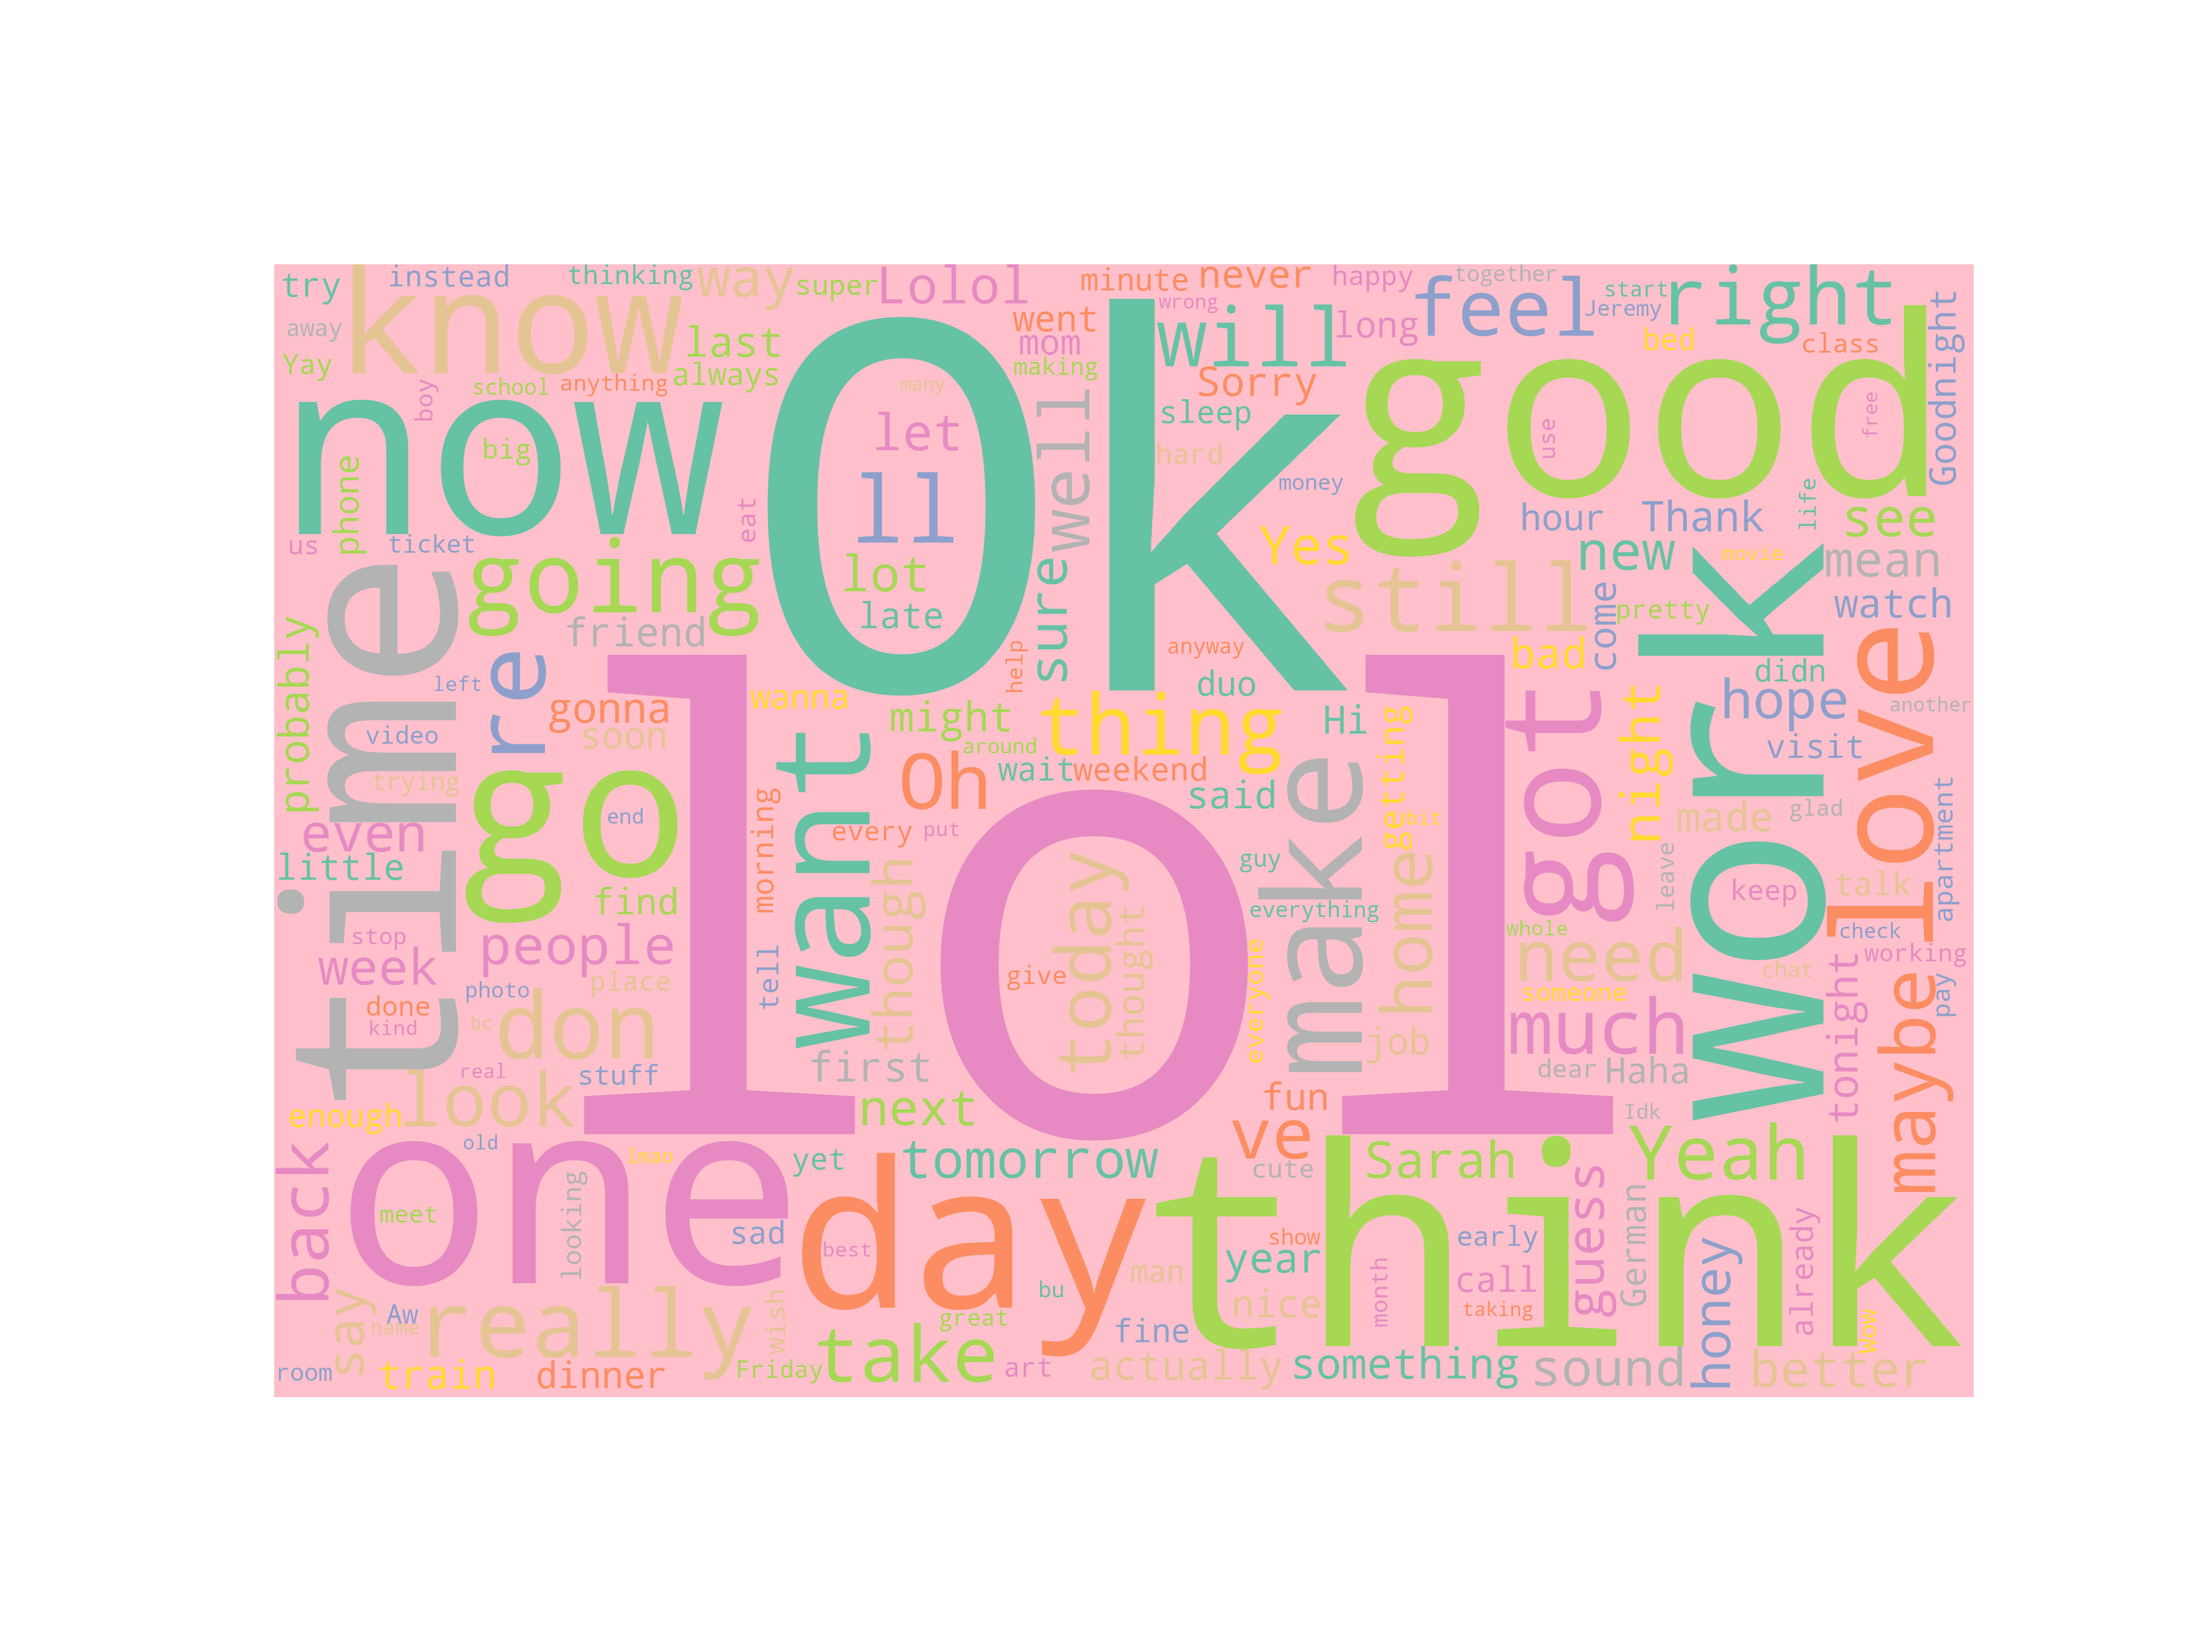
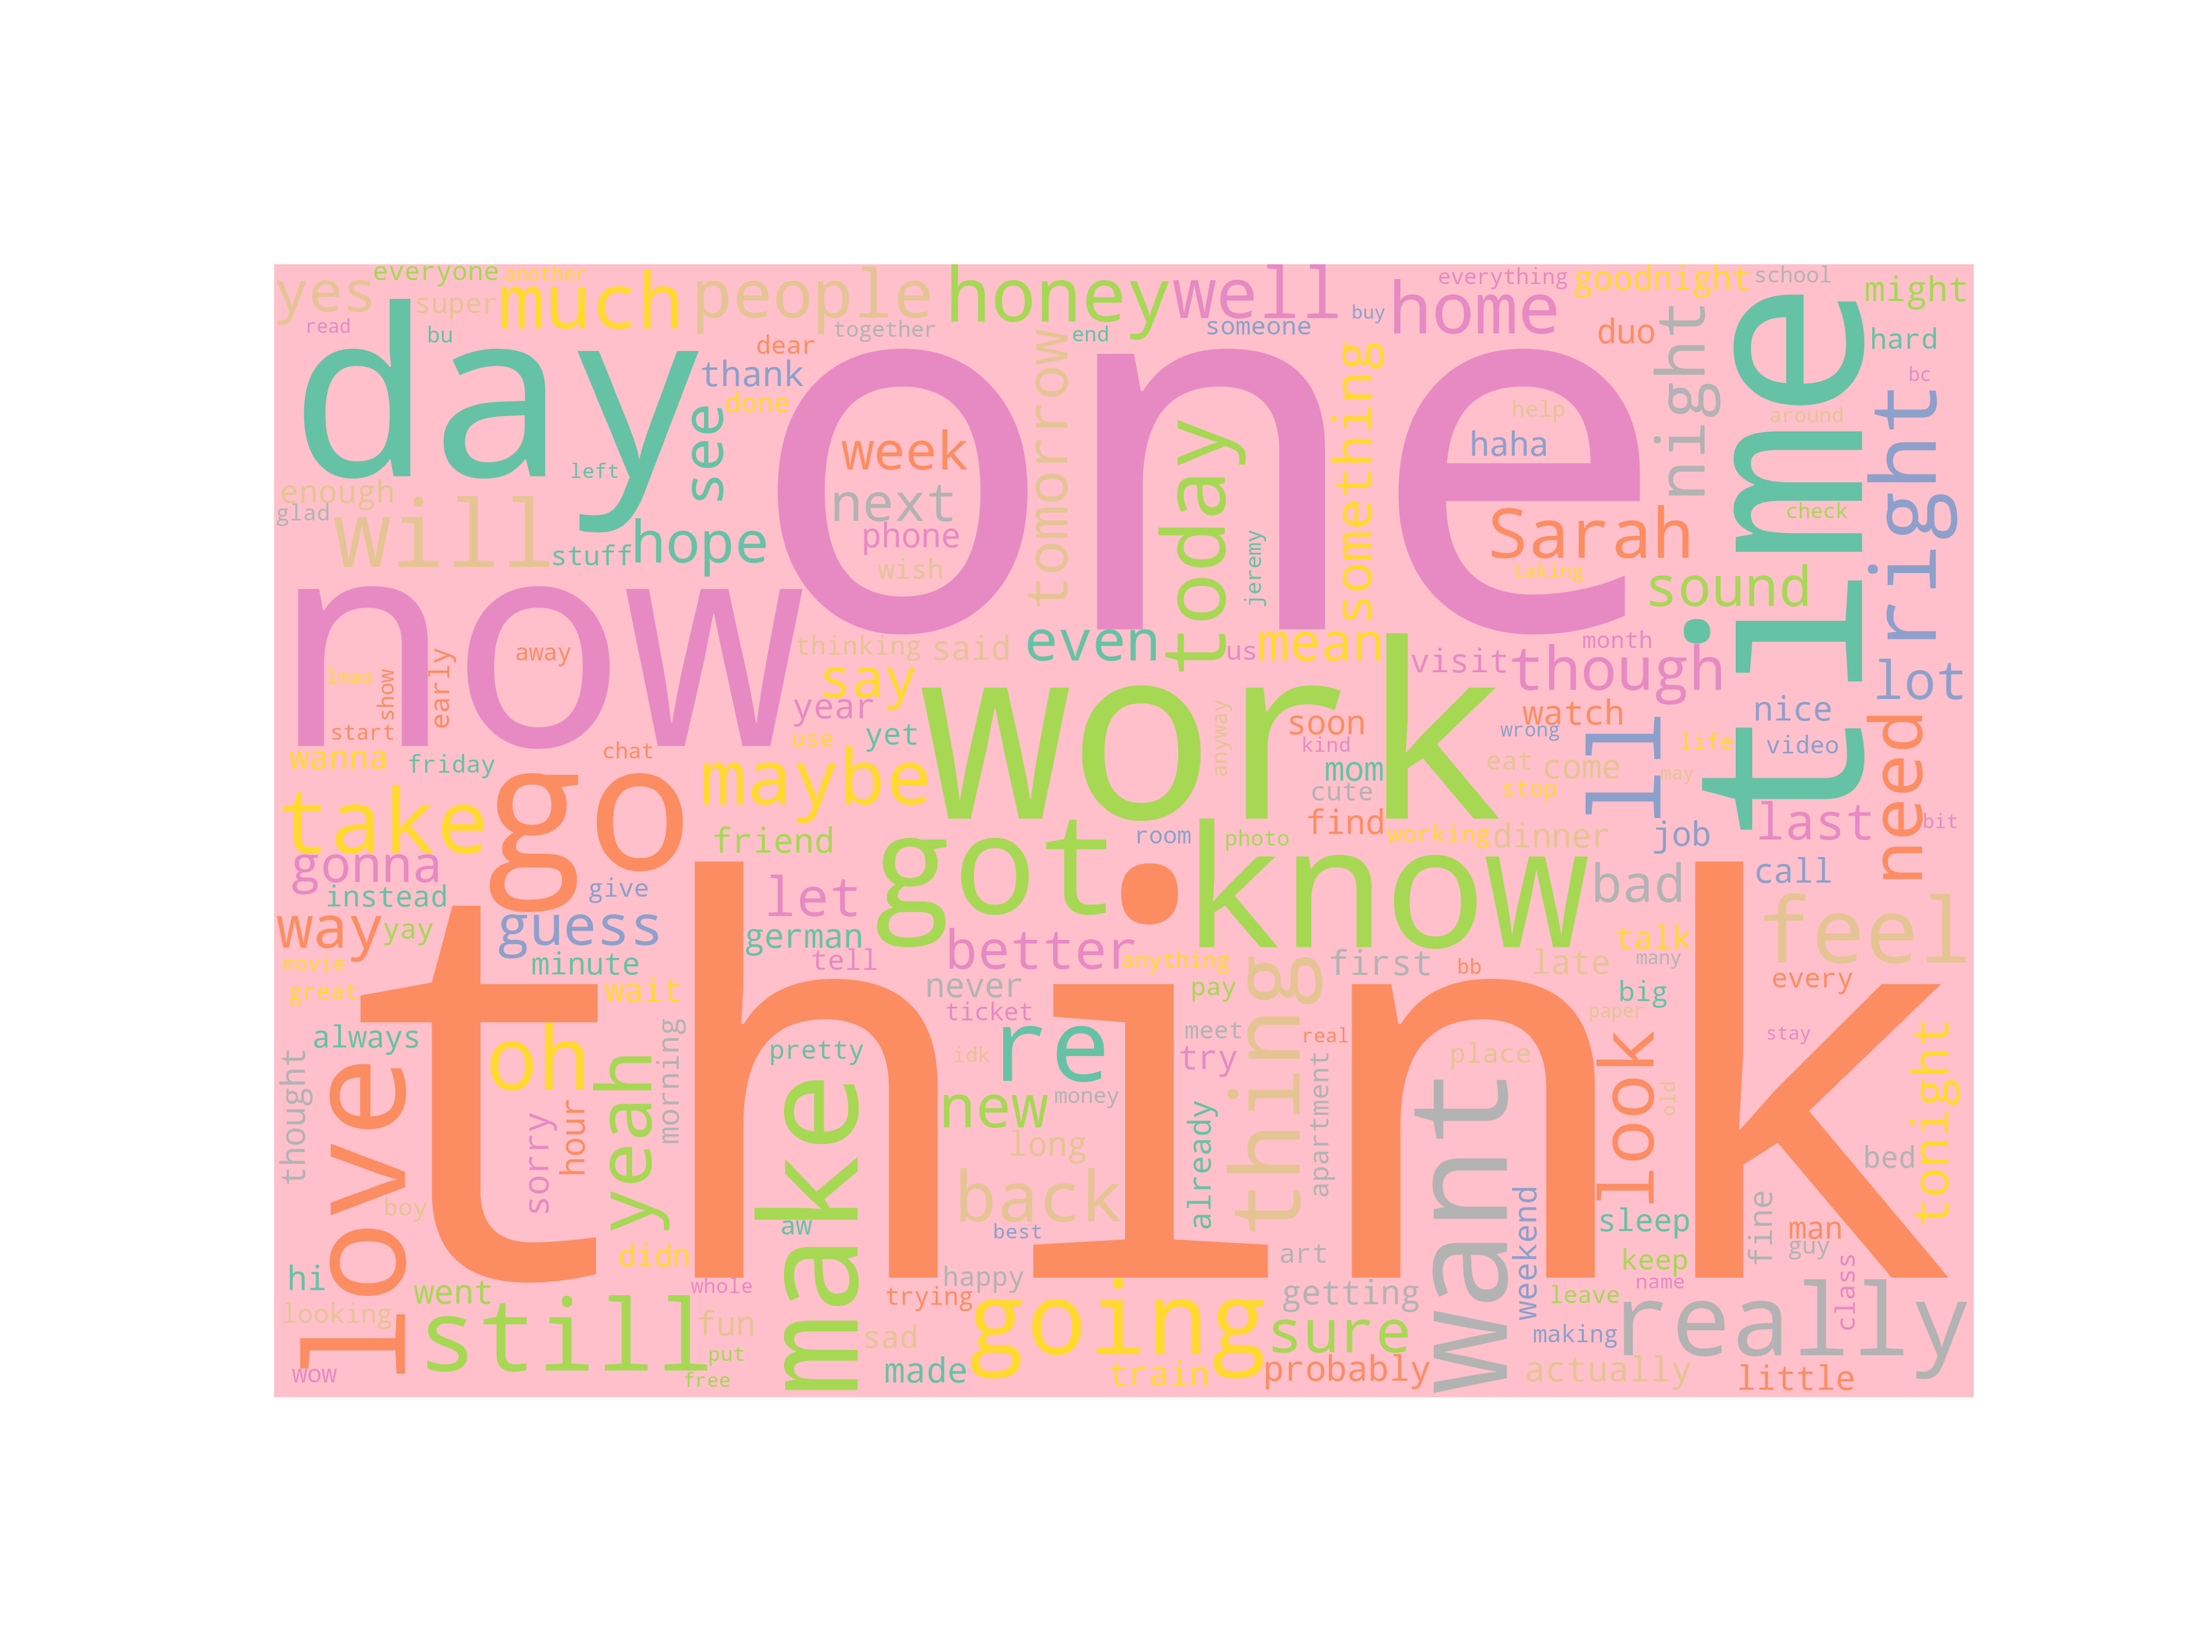
working, but a unicode bug with apostrophy's

Changed region(s): [[0.125, 0.155, 0.9062, 0.868]]

diff --git a/preprocessing.py b/preprocessing.py
@@ -1,11 +1,17 @@
+'''Jeremy Thaller
+August 2nd, 2020. Munich.
+
+Quick one day build. I ended up not re-using any code.
+
+This script opens a json, fixes the encoding bug, then creates a pandas data frame with 
+sender and content columns. The messages are cleaned with regex and then saved as a pickle.
+'''
+
 import pickle
 import re, string
-import numpy as np
 import pandas as pd
-
 import json
-import pickle
-import pandas as pd
+
 
 
 
@@ -49,29 +55,34 @@ with open(sarah_json1) as f:
 with open(sarah_json2, "r") as f:
     fixed_json = json.load(f, object_hook=parse_obj)
     df.append(pd.json_normalize(fixed_json["messages"]))
-    print(df.head())
+    # print(df.head())
 
 
 df = df.drop(columns = ['audio_files','reactions', 'photos', 'call_duration', 'share.link', 'missed', 'videos', 'gifs', 'files', 'sticker.uri', 'timestamp_ms'])
 
-print(df['type'].unique())
+# print(df['type'].unique())
 df = df[df.type == 'Generic']
 df = df[df.content.notnull()]
 df = df.drop(columns = 'type')
-print(df.head())
+print(df.head(5))
 
 # clean up content 
+df.content = df.content.str.lower()
 df = df.replace(['(?:\@|https?\://)\S+'], '', regex=True)
-# df = df.replace(['honey*'], 'honey')
+df = df.replace(regex='honey{1,}', value='honey')
+df = df.replace(regex='(?i)b{3,}', value=' bb')
+df = df.replace(regex='(?i)sarah{1,}', value=' Sarah')
+# df = df.replace(chr(''').decode('utf-8'), '\'')
+# '’'
+print(df.head(5))
 
-# df = df.replace('/[^0-9a-zA-Z]/g', "")
-#idk wtf went wrong with facebook's encoding that this needs to be fixed
-# df = re.sub(r'[\xc2-\xf4][\x80-\xbf]+',lambda m: m.group(0).encode('latin1').decode('utf8'), df)
-print(df.head())
 
-print(df.content.str.split(expand=True).stack().value_counts()[20:40])
-# print(df.content.str.split(expand=True).stack())
-
+# rsqm = '’'.decode('utf-8') #U+2019: right single quotation mark
+# if rsqm in df.content:
+#     df.content = df.content.replace(rsqm,'\'')
+# text_posts[post_id] = str.lower(text.encode('utf-8','replace'))
+print(df.head(5))
+# print(df.content.str.split(expand=True).stack().value_counts()[""])
 
 with open('sarah_cleaned_messages_df.pickle', 'wb') as handle:
     pickle.dump(df, handle, protocol=pickle.HIGHEST_PROTOCOL)

diff --git a/make_cloud.py b/make_cloud.py
@@ -1,29 +1,39 @@
+'''
+Jeremy Thaller
+August 2nd, 2020
+
+This script opens the pickle made from the preprocessing.py script. 
+Then creates a word cloud and saves it as a jpg. You might need to add a few
+stop words to get a better result.
+'''
+
 import numpy as np
 import pandas as pd
 from os import path
 # from PIL import Image
 from wordcloud import WordCloud, STOPWORDS, ImageColorGenerator
 
+# %matplotlib notebook
 import matplotlib.pyplot as plt
-% matplotlib inline
 
 df = pd.read_pickle('sarah_cleaned_messages_df.pickle')
-print(df.head())
+# print(df.head())
+# print(df.content.str.split(expand=True).stack().value_counts()["don"])
 
 # Define a function to plot word cloud
 def plot_cloud(wordcloud):
     # Set figure size
     fig = plt.figure(figsize=(40, 30))
     # Display image
-    plt.imshow(wordcloud) 
+    plt.imshow(wordcloud, interpolation=bilinear) 
     # No axis details
     plt.axis("off")
     plt.show()
-    fig.savefig("ZJ_cloud.png")
+    fig.savefig("sarah_cloud.png")
 
 
 # Generate wordcloud
-wordcloud = WordCloud(width = 3000, height = 2000, random_state=1, background_color='pink', 
-                      colormap='Set2', collocations=False, stopwords = ['lol', 'ok', 'good', 'lolol'] + list(STOPWORDS)).generate(' '.join(df['content']))
+wordcloud = WordCloud(width = 3000, height = 2000, random_state=1, background_color='pink',
+                      colormap='Set2', collocations=False, stopwords = ['lol', 'ok', 'good', 'lolol', 'don', 've'] + list(STOPWORDS)).generate(' '.join(df['content']))
 # Plot
 plot_cloud(wordcloud)
